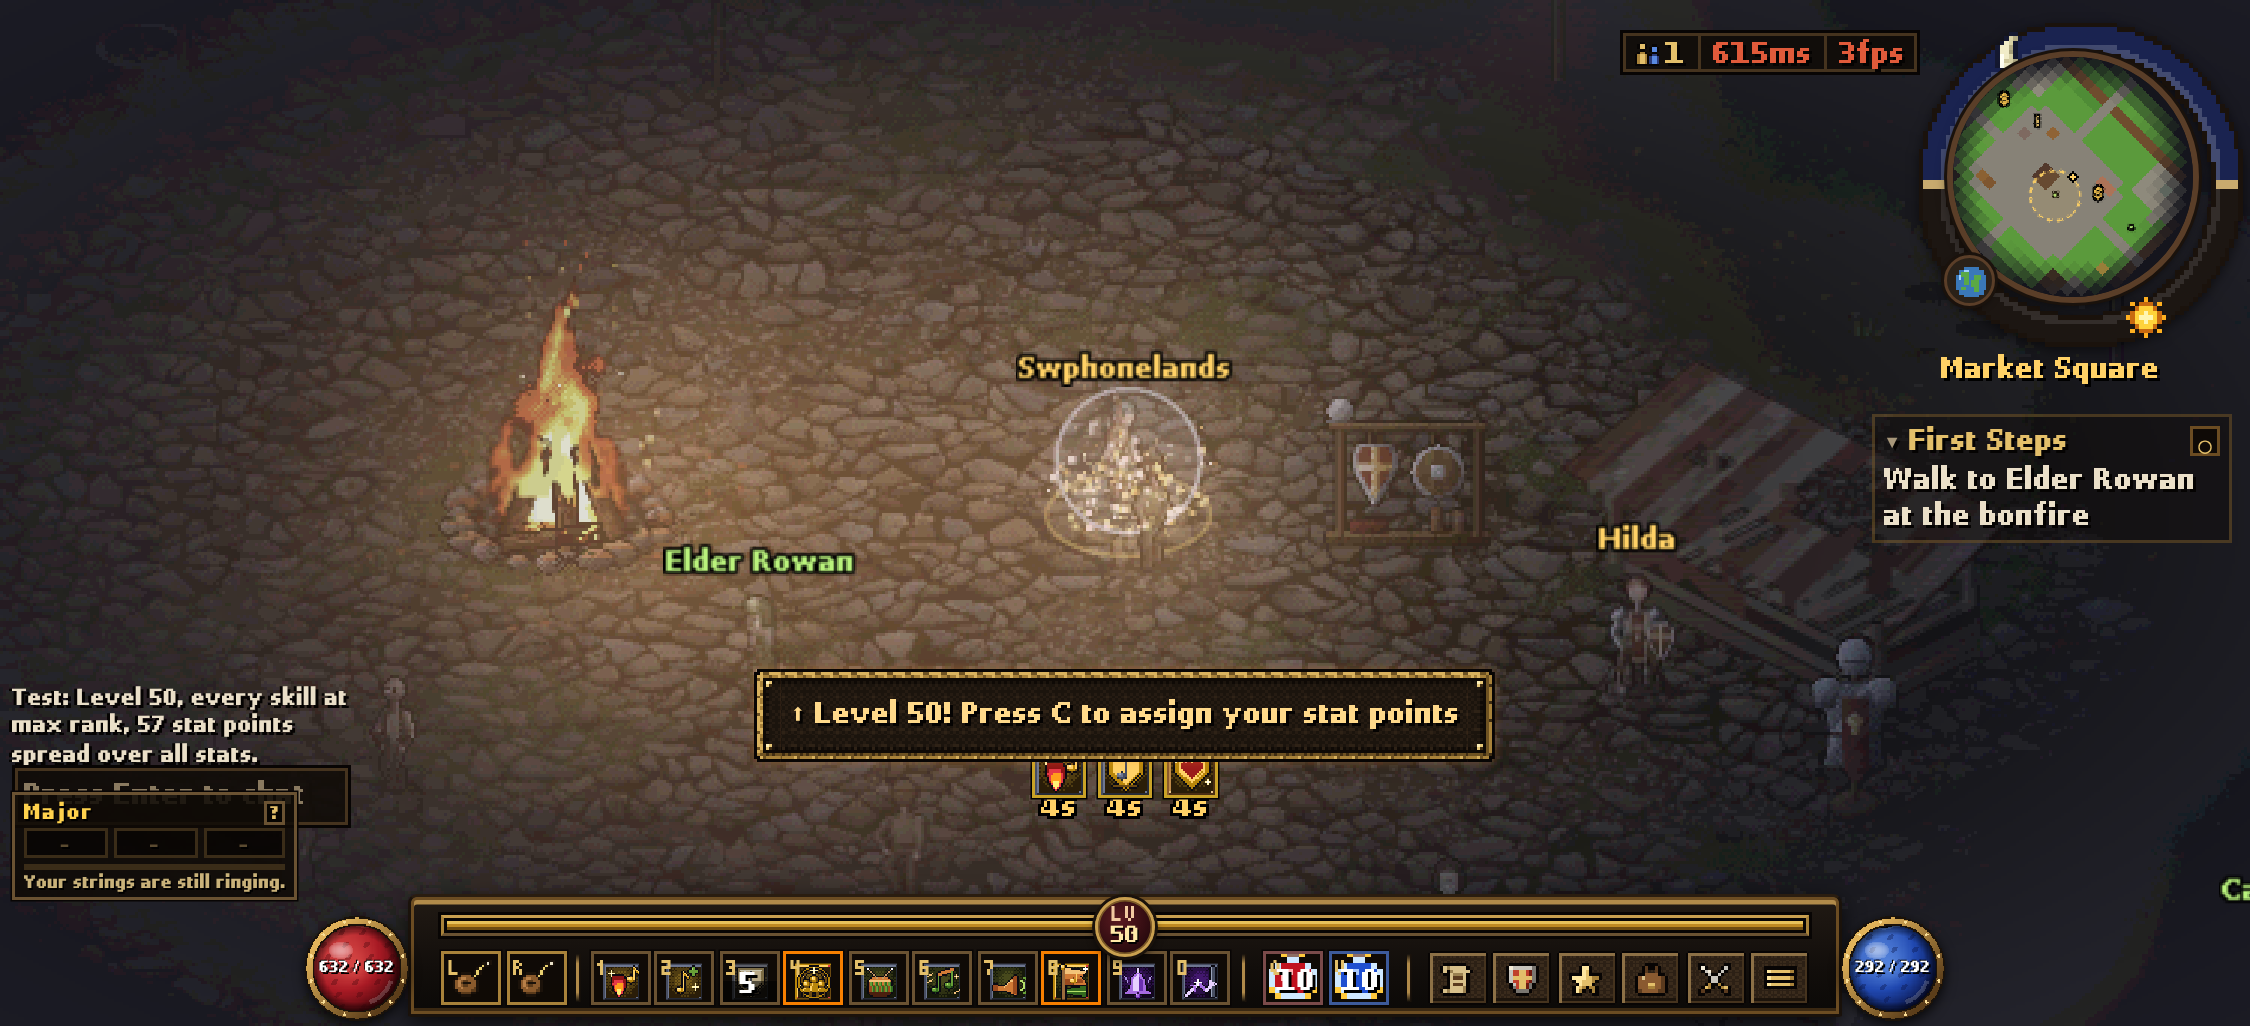
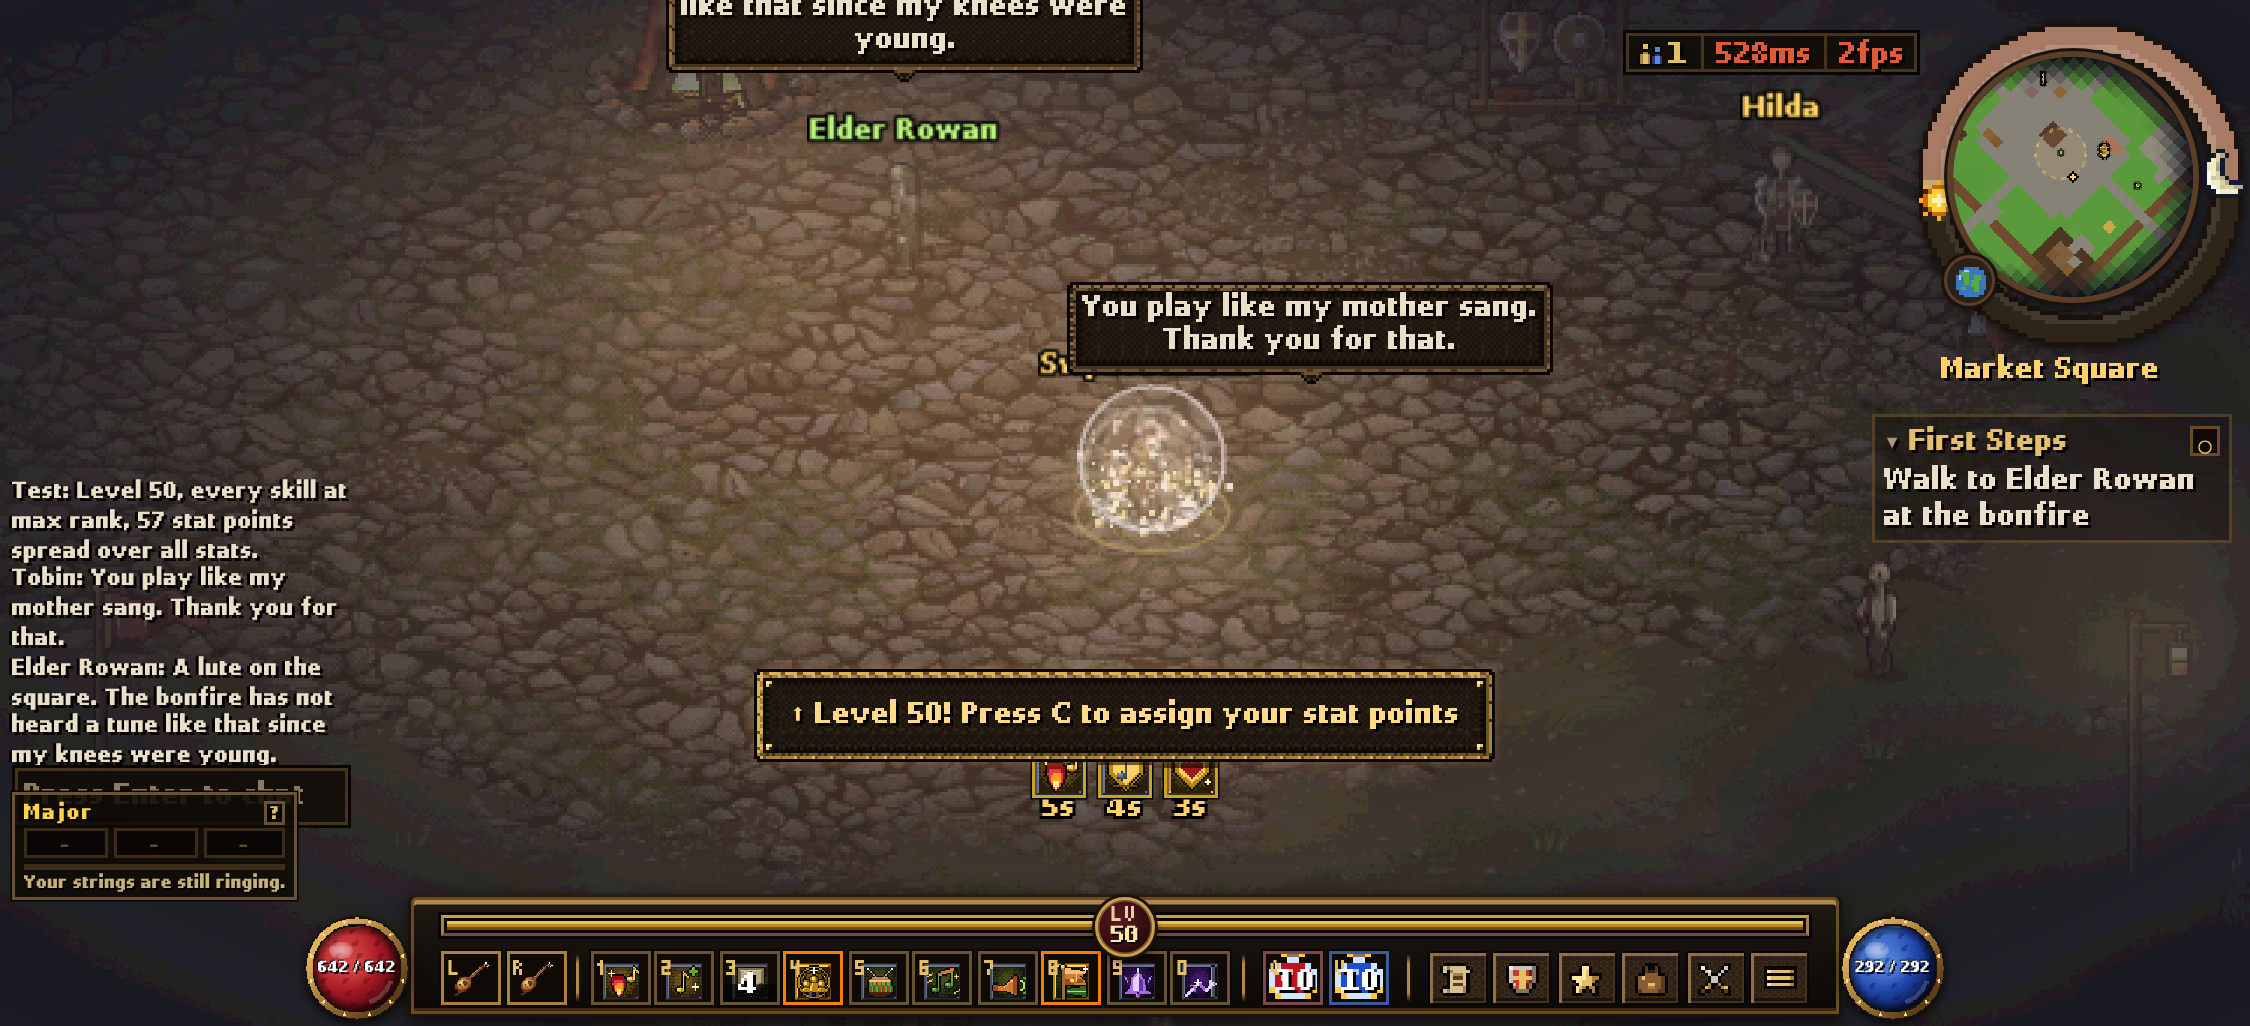
Busking speech bubble over villagers, 4-seat picker layout, dim skill keys while the server would refuse, drop ?archived dev flag [no patch note]
Claude-Session: https://claude.ai/code/session_011a6sM4zWDhP5Xfhu3R8ZUB

diff --git a/client/src/TownScene.ts b/client/src/TownScene.ts
@@ -347,6 +347,7 @@ export class TownScene extends Phaser.Scene {
   private moves!: SkillMoves; // melee skill micro sequences (skillMoves.ts)
   private forms!: BeastForms; // the vampire's Bat Form / Wolf Form (beastForms.ts)
   private gearFx!: GearFx; // item level effects on heroes
+  private attackHoldUntil = 0; // local clock (ms) the shared attack timer is estimated to run until
   private lastCast: Record<string, number> = {}; // local clock (ms) of my last cast of each skill, for cooldowns
   private mobByMeAt = -1e9; // last time a monster stood right by my hero (my name label hides then)
   private items = new Map<string, Phaser.GameObjects.Image>();
@@ -1306,7 +1307,12 @@ export class TownScene extends Phaser.Scene {
       if (e) this.squash(e, 1.15, 0.85, 120, 1);
     });
     this.room.onMessage("swing", ({ id, step, variant, ax, ay, w }) => {
-      if (id === this.me) this.pointer?.swung(); // the server took the click-attack
+      if (id === this.me) {
+        this.pointer?.swung(); // the server took the click-attack
+        // the swing holds the shared attack timer (the strum 850 ms): skill keys look unavailable until it ends (an estimate, the server decides)
+        const mine = this.room?.state.players.get(this.me), def = mine && attackProfile(mine.cls, activeOf(mine));
+        if (def) this.attackHoldUntil = performance.now() + (def.combo[step ?? 0]?.cooldownMs ?? def.attackCooldownMs);
+      }
       this.showSwing(id, step ?? 0, variant ?? 0, ax, ay, w);
     });
     this.room.onMessage("sfx", (ev) => this.onSkillFx(ev));
@@ -2631,6 +2637,7 @@ export class TownScene extends Phaser.Scene {
   /** Skill bar at the bottom: potions, the left-click cell and the 10 slots (the old text list of actions is gone, Murat 2026-11-04). */
   private renderActions(mine: any, cls: ClassKind, cdm: number, now: number) {
     const pools = { energy: mine.energy, mana: unpackMana(mine.mp).mana };
+    const blocked = !!(mine.stunned || mine.broken) || performance.now() < this.attackHoldUntil; // the server refuses a press now: dim the keys
     const slots: string[] = [...(mine.slots ?? [])];
     // Slot bar at the bottom: 10 cells, cooldown shading, click to choose a skill
     const cells = Array.from({ length: slotCount() }, (_, i) => {
@@ -2640,7 +2647,7 @@ export class TownScene extends Phaser.Scene {
       const h = this.skillHud(cls, skill, cdm);
       const left = Math.max(0, h.cdMs - (now - h.last));
       const shade = left > 0 ? `<div class="cd" style="height:${(left / h.cdMs) * 100}%"></div>` : "";
-      const wait = (left > 0 || !canPay(pools, h.cost) ? " wait" : "") + (shortOf(pools, h.cost) === "heat" ? " hot" : "");
+      const wait = (left > 0 || blocked || !canPay(pools, h.cost) ? " wait" : "") + (shortOf(pools, h.cost) === "heat" ? " hot" : "");
       const power = skill;
       const unarmed = this.unarmedFor(mine, cls, skill);
       return `<div class="slot${h.ult ? " ult" : ""}${wait}${unarmed ? " unarmed" : ""}${picking}" data-slot="${i}" data-skill="${skill}" data-tiphead="${h.name}" data-tip="${tipEsc((unarmed ? `${unarmed}. ` : "") + (skillOf(cls, skill)?.desc ?? ""))}" data-tiphint="Key ${slotKey(i)} · click to change · wheel to scroll · right-click to clear">` +
@@ -2769,6 +2776,7 @@ export class TownScene extends Phaser.Scene {
     el.textContent = `${name}: ${text}`;
     log.appendChild(el);
     while (log.children.length > 8) log.firstChild!.remove();
+    if (id.startsWith("npc:")) { this.npcs?.say(id.slice(4), text); return; } // a villager answering a busker
     const e = this.entities.get(id);
     if (!e) return;
     e.bubble?.destroy();

diff --git a/client/src/npcs.ts b/client/src/npcs.ts
@@ -32,6 +32,7 @@ import { itemTexture, potionTex } from "./textures";
 import { potionAmount, potionName, potionSlots, slotsAfter, total, unpackPotions } from "../../shared/potions";
 import { BAG_SIZE } from "../../shared/gear";
 import { isoAnchor } from "./iso";
+import { speechBubble } from "./weathered";
 import { msUntilUndeadNight } from "../../shared/daynight";
 import { dayTime } from "./details";
 import { TEXT_FONT, TITLE_FONT, TEXT_PX, TITLE_PX, WT } from "./pixelfont";
@@ -56,6 +57,7 @@ const ZONE_GIVERS = new Map(ZONE_ARCS.map((a) => [a.quests[0].giver, a.quests[0]
 export const arcFits = (giver: string, level: number) => { const l = ZONE_GIVERS.get(giver); return l !== undefined && level >= l && level <= l + 6; };
 
 export class NpcLayer {
+  private bubbles = new Map<string, Phaser.GameObjects.Image>();
   private sprites = new Map<string, { sprite: Phaser.GameObjects.Sprite; label: Phaser.GameObjects.Text; mark: Phaser.GameObjects.Text }>();
   private prompt = document.createElement("div");
   private dialog = document.createElement("div");
@@ -227,6 +229,18 @@ export class NpcLayer {
   hidePrompt = false;
 
   /** E key: use the quest object you stand next to, talk to the NPC next to you, or close the dialog. */
+  /** A villager speaks (server `chat` from `npc:<id>`): a speech bubble over its sprite for a few seconds. */
+  say(id: string, text: string): boolean {
+    const s = this.sprites.get(id);
+    if (!s) return false;
+    this.bubbles.get(id)?.destroy();
+    const b = speechBubble(this.scene, s.sprite.x, s.sprite.y - Math.round(21 * CHAR_GROW) - 14, text).setDepth(s.sprite.depth + 5);
+    isoAnchor(b, s.sprite);
+    this.bubbles.set(id, b);
+    this.scene.time.delayedCall(4000, () => { if (this.bubbles.get(id) === b) { b.destroy(); this.bubbles.delete(id); } });
+    return true;
+  }
+
   interact() {
     if (this.story) this.closeStory();
     else if (this.talking) this.close();

diff --git a/client/src/fireside.ts b/client/src/fireside.ts
@@ -55,7 +55,7 @@ export function mountFireside(canvas: HTMLCanvasElement, labelHost: HTMLElement,
     cw = Math.ceil(wd / S); ch = Math.ceil(hd / S);
     canvas.width = wd; canvas.height = hd;
     cx = Math.round(cw / 2);
-    cy = Math.round(ch > cw * 1.3 ? ch * 0.36 + 34 : ch * 0.45 + 40); // portrait: keep the ring clear of the panel below
+    cy = Math.round(ch > cw * 1.3 ? ch * 0.36 + 18 : ch * 0.45 + 40); // portrait: keep the ring clear of the panel below
     squeeze = Math.min(1, (cw / 2 - 30) / 128); // narrow screens: pull the ring in so every hero shows
     ground = [paintGround(1), paintGround(0.93)];
   }
@@ -135,7 +135,7 @@ export function mountFireside(canvas: HTMLCanvasElement, labelHost: HTMLElement,
 
   // ---- heroes ----
   // only playable classes sit by the fire; with few of them they take the seats nearest the middle
-  const seats = ACTIVE_CLASSES.length <= 2 ? [2, 4] : ACTIVE_CLASSES.length <= 3 ? [2, 3, 4] : SLOTS.map((_, i) => i);
+  const seats = ACTIVE_CLASSES.length <= 2 ? [2, 4] : ACTIVE_CLASSES.length <= 3 ? [2, 3, 4] : ACTIVE_CLASSES.length === 4 ? [1, 2, 4, 5] : SLOTS.map((_, i) => i);
   const heroes: Hero[] = ACTIVE_CLASSES.map((k, i) => {
     const label = document.createElement("div");
     label.className = "fs-label";

diff --git a/client/src/main.ts b/client/src/main.ts
@@ -44,9 +44,7 @@ for (const c of COLORS) {
 // Start screens, all by the fire: log in -> resume a saved hero or start a new game -> pick a hero round the fire -> loading
 let saved: string | null = null;
 try { saved = localStorage.getItem("cls"); } catch { /* ignore */ }
-// `?archived=1` keeps a saved archived class selected, to test one against a server run with ALLOW_ARCHIVED_CLASSES=1
-const archivedOk = new URLSearchParams(location.search).has("archived");
-let cls: ClassKind = isActiveClass(saved) || (archivedOk && CLASS_KINDS.includes(saved as ClassKind)) ? saved as ClassKind : ACTIVE_CLASSES[0];
+let cls: ClassKind = isActiveClass(saved) ? saved as ClassKind : ACTIVE_CLASSES[0];
 
 document.getElementById("fstitle")!.appendChild(pixelText("Pixel Town Brawl", "#ffcf52", 12, 2));
 const fireside = mountFireside(document.getElementById("fireside") as HTMLCanvasElement, document.getElementById("fslabels")!, (k) => pickHero(k));
